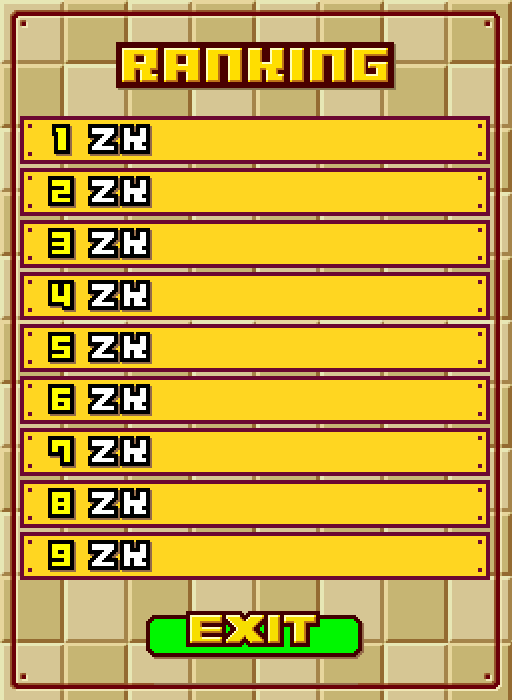
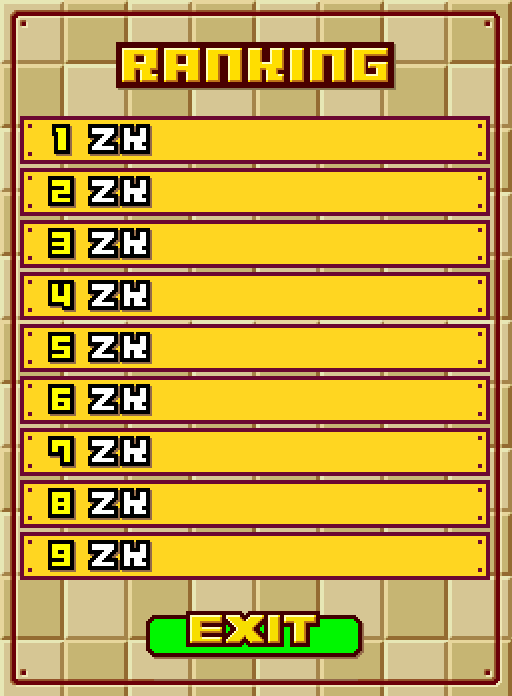
canvas size modified, mascot added to play stage

diff --git a/js/GamePlay.js b/js/GamePlay.js
@@ -1,0 +1,118 @@
+function GamePlay(){
+	//left side single score record
+	var record = {
+		init : function(){
+
+		},
+
+		shutDown : function(){
+
+		}
+
+	}
+
+	//total score
+	var score = {
+		init : function(){
+			
+		}
+	}
+
+	//level up & stage change
+	var level = {
+		init : function(){
+			
+		}
+	}
+
+	//top most animation looping
+	var mascot = {
+		background : null,
+		animal : null,
+		twitched : false,
+		setStage : function(stageName){
+			var sx, sy, w, h, x, y;
+			switch (stageName) 
+			{
+				case 'crocodile' : 
+					i = 0; sy = 0; w = 228; h = 212; x = 198; y = 35;
+					break
+				case 'elephant' :
+					i = 1; sy = 212; w = 324; h = 196; x = 138; y = 48;
+					break
+				case 'giraffe' :
+					i = 2; sy = 408; w = 244; h = 276; x = 196; y = 1;
+					break
+				case 'hippo' :
+					i = 3; sy = 684; w = 292; h = 228; x = 138; y = 52;
+					break
+				case 'lion' :
+					i = 4; sy = 912; w = 228; h = 228; x = 178; y = 6;
+					break
+				case 'monkey' :
+					i = 5; sy = 1140; w = 164; h = 196; x = 182; y = 63;
+					break
+				case 'panda' :
+					i = 6; sy = 1336; w = 148; h = 228; x = 238; y = 39;
+					break
+				default :
+			}
+
+			mascot.background.setImage(g_ResourceManager.mascotBg, 0, 280*i, 512, 278, 1);
+			mascot.animal.setAnimation(g_ResourceManager.mascot, 0, sy, w, h, x, y, 2, 2);
+		},
+
+		twitch : function(){
+			mascot.animal.frameCount = 4;
+			mascot.twitched = true;
+		},
+
+		update : function(){
+			if(mascot.twitched && mascot.animal.currentFrame === 3){
+				mascot.animal.frameCount = 2;
+				mascot.twitched = false;
+			}
+		},
+
+		init : function(){
+			mascot.background = new VisualGameObject().startupVisualGameObject(g_ResourceManager.mascotBg, 0, 0, 512, 278, 0, 0, 1);
+			mascot.animal = new AnimatedGameObject().startupAnimatedGameObject(g_ResourceManager.mascot, 0, 0, 228, 212, 198, 35, 2, 2, 2);
+			mascot.animal.update = mascot.update;
+		},
+		
+		shutDown : function(){
+			mascot.background.shutDownVisualGameObject();
+			mascot.animal.shutDownAnimatedGameObject();
+		}
+
+	}
+
+	//time count
+	var timer = {
+		init : function(){
+
+		}
+	}
+
+	//main play field
+	var play = {
+		init : function(){
+			
+		}
+	}
+
+	//ovrall handler
+	var zooKeeper = {
+		init : function(){
+			record.init();
+			score.init();
+			level.init();
+			mascot.init();
+			timer.init();
+			play.init();
+		}
+	}
+
+	return zooKeeper;
+
+}

diff --git a/js/GameGuide.js b/js/GameGuide.js
@@ -4,7 +4,7 @@ function GameGuide()
 	this.menu = null;
 
 	this.startupGameGuide = function(){
-		this.startupVisualGameObject(g_ResourceManager.guide, 0, 0, 512, 700, 0, 0, 2);
+		this.startupVisualGameObject(g_ResourceManager.guide, 0, 0, 512, 696, 0, 0, 2);
 		this.menu = new GameGuideMenu().startupGameGuideMenu();
 		this.guidePage = 1;
 		return this;
@@ -19,7 +19,7 @@ function GameGuide()
 	}
 
 	this.update = function(){
-		this.setImage(g_ResourceManager.guide, (this.guidePage - 1)*512, 0, 512, 700, 0, 0, 3);
+		this.setImage(g_ResourceManager.guide, (this.guidePage - 1)*512, 0, 512, 696, 0, 0, 3);
 
 		switch (this.guidePage){
 			case 1 :
@@ -41,18 +41,18 @@ function GameGuide()
 
 	this.mouseclick = function(event)
 	{
-		if( event.offsetX > 192 && event.offsetX < 320 && event.offsetY > 650 && event.offsetY < 680 ){
+		if( event.offsetX > 192 && event.offsetX < 320 && event.offsetY > 646 && event.offsetY < 676 ){
 			//exit button hit
 			g_ApplicationManager.gameMenu = new GameMenu().startupGameMenu();
 			this.shutdownGameGuide();
 		}
 
-		if( event.offsetX > 32 && event.offsetX < 96 &&  event.offsetY > 654 && event.offsetY < 680 ){
+		if( event.offsetX > 32 && event.offsetX < 96 &&  event.offsetY > 650 && event.offsetY < 676 ){
 			//prev button hit
 			if(this.guidePage > 1){ this.guidePage --; }
 		}
 
-		if( event.offsetX > 416 && event.offsetX < 480 &&  event.offsetY > 654 && event.offsetY < 680 ){
+		if( event.offsetX > 416 && event.offsetX < 480 &&  event.offsetY > 650 && event.offsetY < 676 ){
 			//next button hit
 			if(this.guidePage < 4){ this.guidePage ++; }
 		}
@@ -65,14 +65,14 @@ function GameGuideMenu()
 	this.state = 0;
 	this.startupGameGuideMenu = function()
 	{
-		this.startupVisualGameObject(g_ResourceManager.titlescren, 0, 908, g_ResourceManager.titlescren.width, 34, 0, 650, 4);
+		this.startupVisualGameObject(g_ResourceManager.titlescren, 0, 908, g_ResourceManager.titlescren.width, 34, 0, 646, 4);
 		this.state = 1;
 		return this;
 	}
 
 	this.update = function()
 	{
-		this.setImage(g_ResourceManager.titlescren, 0, 908 + (this.state - 1)*34, g_ResourceManager.titlescren.width, 34, 0, 650, 4);
+		this.setImage(g_ResourceManager.titlescren, 0, 908 + (this.state - 1)*34, g_ResourceManager.titlescren.width, 34, 0, 646, 4);
 	}
 
 	this.shutdownGameGuideMenu = function()

diff --git a/js/GameMenu.js b/js/GameMenu.js
@@ -62,7 +62,8 @@ function GameMenu()
 		switch (this.hoverOnButton)
 		{
 			case 'start' : 
-				//
+				g_ApplicationManager.gamePlay = GamePlay().init();
+				g_ApplicationManager.gameMenu.shutdownGameMenu();
 				break
 			case 'guide' :
 				g_ApplicationManager.gameGuide = new GameGuide().startupGameGuide();
@@ -81,7 +82,7 @@ GameMenu.prototype = new VisualGameObject;
 function MenuAnimation(){
 	this.initialX = 520;
 	this.initialY = 360;
-	this.distance = 20;
+	this.distance = 30;
 	this.animals = [];
 	this.startupMenuAnimation = function(){
 		var _initialX = this.initialX; /*第一只动物的初始位置*/
@@ -108,7 +109,7 @@ function MenuAnimation(){
 
 function Animal(){
 	this.speed = 50;
-	this.queueLength = 964;
+	this.queueLength = 1044;
 	this.startupAnimal = function(image, sx, sy, width, height, x, y, z, frameCount)
 	{
 		this.startupAnimatedGameObject(image, sx, sy, width, height, x, y, z, frameCount, frameCount);

diff --git a/Zoo_Keeper.html b/Zoo_Keeper.html
@@ -7,7 +7,7 @@
 </head>
 <body>
 	<div class="container">
-		<canvas id="canvas" width="512" height="700">
+		<canvas id="canvas" width="512" height="696">
 			<p>Your browser does not support the canvas element.</p>
 		</canvas>
 	</div>
@@ -23,5 +23,6 @@
 <script type="text/javascript" src="js/ApplicationManager.js"></script>
 <script type="text/javascript" src="js/GameMenu.js"></script>    
 <script type="text/javascript" src="js/GameGuide.js"></script>
-<script type="text/javascript" src="js/GameRank.js"></script>  
+<script type="text/javascript" src="js/GameRank.js"></script>
+<script type="text/javascript" src="js/GamePlay.js"></script>    
 <script type="text/javascript" src="js/Main.js"></script>

diff --git a/js/AnimatedGameObject.js b/js/AnimatedGameObject.js
@@ -36,7 +36,7 @@ function AnimatedGameObject()
         this.shutdownVisualGameObject();       
     }
 
-    this.setAnimation = function(image, sx, sy, width, height, frameCount, fps)
+    this.setAnimation = function(image, sx, sy, width, height, x, y, frameCount, fps)
     {
         if (frameCount <= 0) throw "framecount can not be <= 0";
         if (fps <= 0) throw "fps can not be <= 0"
@@ -46,6 +46,8 @@ function AnimatedGameObject()
         this.sy = sy;
         this.width = width;
         this.height = height;
+        this.x = x;
+        this.y = y;
         this.currentFrame = 0;
         this.frameCount = frameCount;
         this.timeBetweenFrames = 1/fps;

diff --git a/js/GameRank.js b/js/GameRank.js
@@ -10,13 +10,13 @@ function GameRank()
 
 		//generate default scores in display
 		var userScoreSet = false;
-		
+
 		for(var i=0; i<9; i++){
 			var score = (12000 - i*1000).toString();
 			var positionX = score.length < 5? 356:330; 
 			var positionY = 124 + i*52;
 
-			if(!userScoreSet && parseInt(score) < g_score){
+			if(!userScoreSet && parseInt(score) <= g_score){
 				this.rank.push(new GameFont().startupGameFont(g_score.toString(), 'white', positionX, positionY, 2));
 				userScoreSet = true;
 			}else{

diff --git a/js/Main.js b/js/Main.js
@@ -9,9 +9,12 @@ var g_Resource = [
 	{name:'animals', src:'resource/animals.png'},
 	{name:'panels', src:'resource/panels.png'},
 	{name:'rank', src:'resource/ranking.png'},
-	{name:'font', src:'resource/font.png'}
+	{name:'font', src:'resource/font.png'},
+	{name:'main', src:'resource/main.png'},
+	{name:'mascot', src:'resource/mascot.png'},
+	{name:'mascotBg', src:'resource/mascot_bg.png'},
 ]
-var g_score = 22860;
+var g_score = 7000;
 
 window.onload = init;
 
